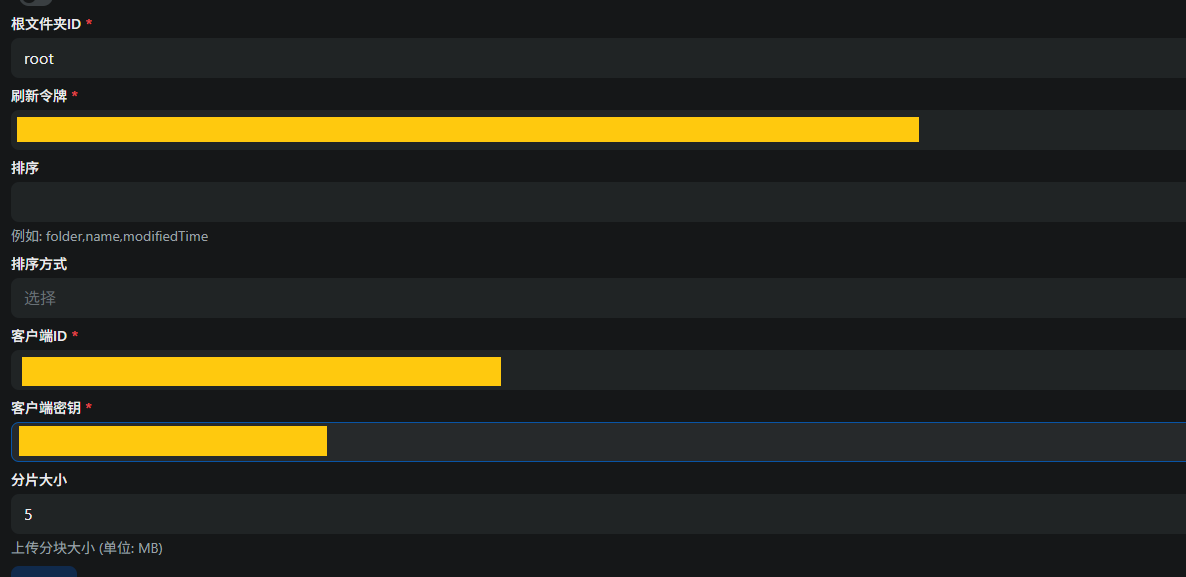
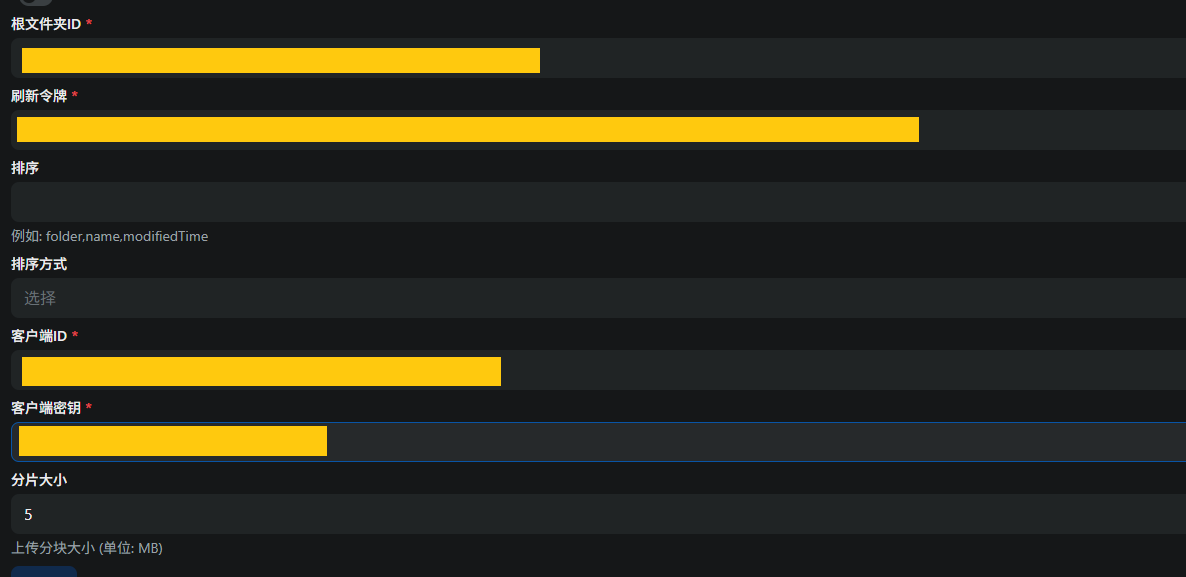
fix:修改格式符号丢失，图片打码root id 避免误解

Changed region(s): [[0.0, 0.0624, 0.468, 0.1248]]

diff --git a/docs/guide/drivers/googledrive.md b/docs/guide/drivers/googledrive.md
@@ -25,11 +25,12 @@ Supports team drives (fill in the directory ID of the team drive for the root di
 1. The machine where the OpenList service is deployed must first be able to connect to Google Drive.
 2. The Google Drive API service must be activated. For activation instructions, see [Enabling the Google Drive API](#enabling-the-google-drive-api).
 > Refer to [Google Workspace > Google Drive > Guide](https://developers.google.com/workspace/drive/api/quickstart/js): https://developers.google.com/workspace/drive/api/quickstart/js
+:::
 
 ## 2. Preparations for Integration
 
 ### 2.1. Enabling the Google Drive API
-1. On the [guide page]((https://developers.google.com/workspace/drive/api/quickstart/js)), find the "Enable API" button, click to enter the quick activation interface, and complete the activation after clicking "Next" and "Confirm".
+1. On the [guide page](https://developers.google.com/workspace/drive/api/quickstart/js), find the "Enable API" button, click to enter the quick activation interface, and complete the activation after clicking "Next" and "Confirm".
 2. You can also visit the [Google Drive API management interface](https://console.cloud.google.com/apis/library/drive.googleapis.com), find the "Enable" button at the top, and wait for the activation to complete after clicking.
 3. **Quota and System Limit Management** (optional): Switch to the "Quota and System Limits" tab and set appropriate quotas and limits according to your usage and needs.
 

diff --git a/docs/zh/guide/drivers/googledrive.md b/docs/zh/guide/drivers/googledrive.md
@@ -26,9 +26,11 @@ star: true
 1. 搭建OpenList服务的机器首先要能连接到Google网盘才可以喔~
 2. 必须启动谷歌云盘API服务，启用方式见[启用 Google Drive API 的 API](#启用-google-drive-api-的-api)
 > 参考 [Google Workspace>Google Drive>指南](https://developers.google.com/workspace/drive/api/quickstart/js): https://developers.google.com/workspace/drive/api/quickstart/js
+:::
+
 ## 2.准备接入
 ### 2.1.启用 Google Drive API 的 API
-1. 在[指南页面]((https://developers.google.com/workspace/drive/api/quickstart/js))中找到`启用API`按钮，点击进入快捷开启界面，点击下一步以及确认后，即可完成开启。
+1. 在[指南页面](https://developers.google.com/workspace/drive/api/quickstart/js)中找到`启用API`按钮，点击进入快捷开启界面，点击下一步以及确认后，即可完成开启。
 2. 也可以访问[谷歌云盘API功能管理界面](https://console.cloud.google.com/apis/library/drive.googleapis.com)，在上方找到`启用`按钮，点击后等待启用完成。
 3. `配额和系统限制管理`（可选）:切换到`配额和系统限制`选项卡，根据你的使用情况和需求，设置合适的配额和限制。
 
